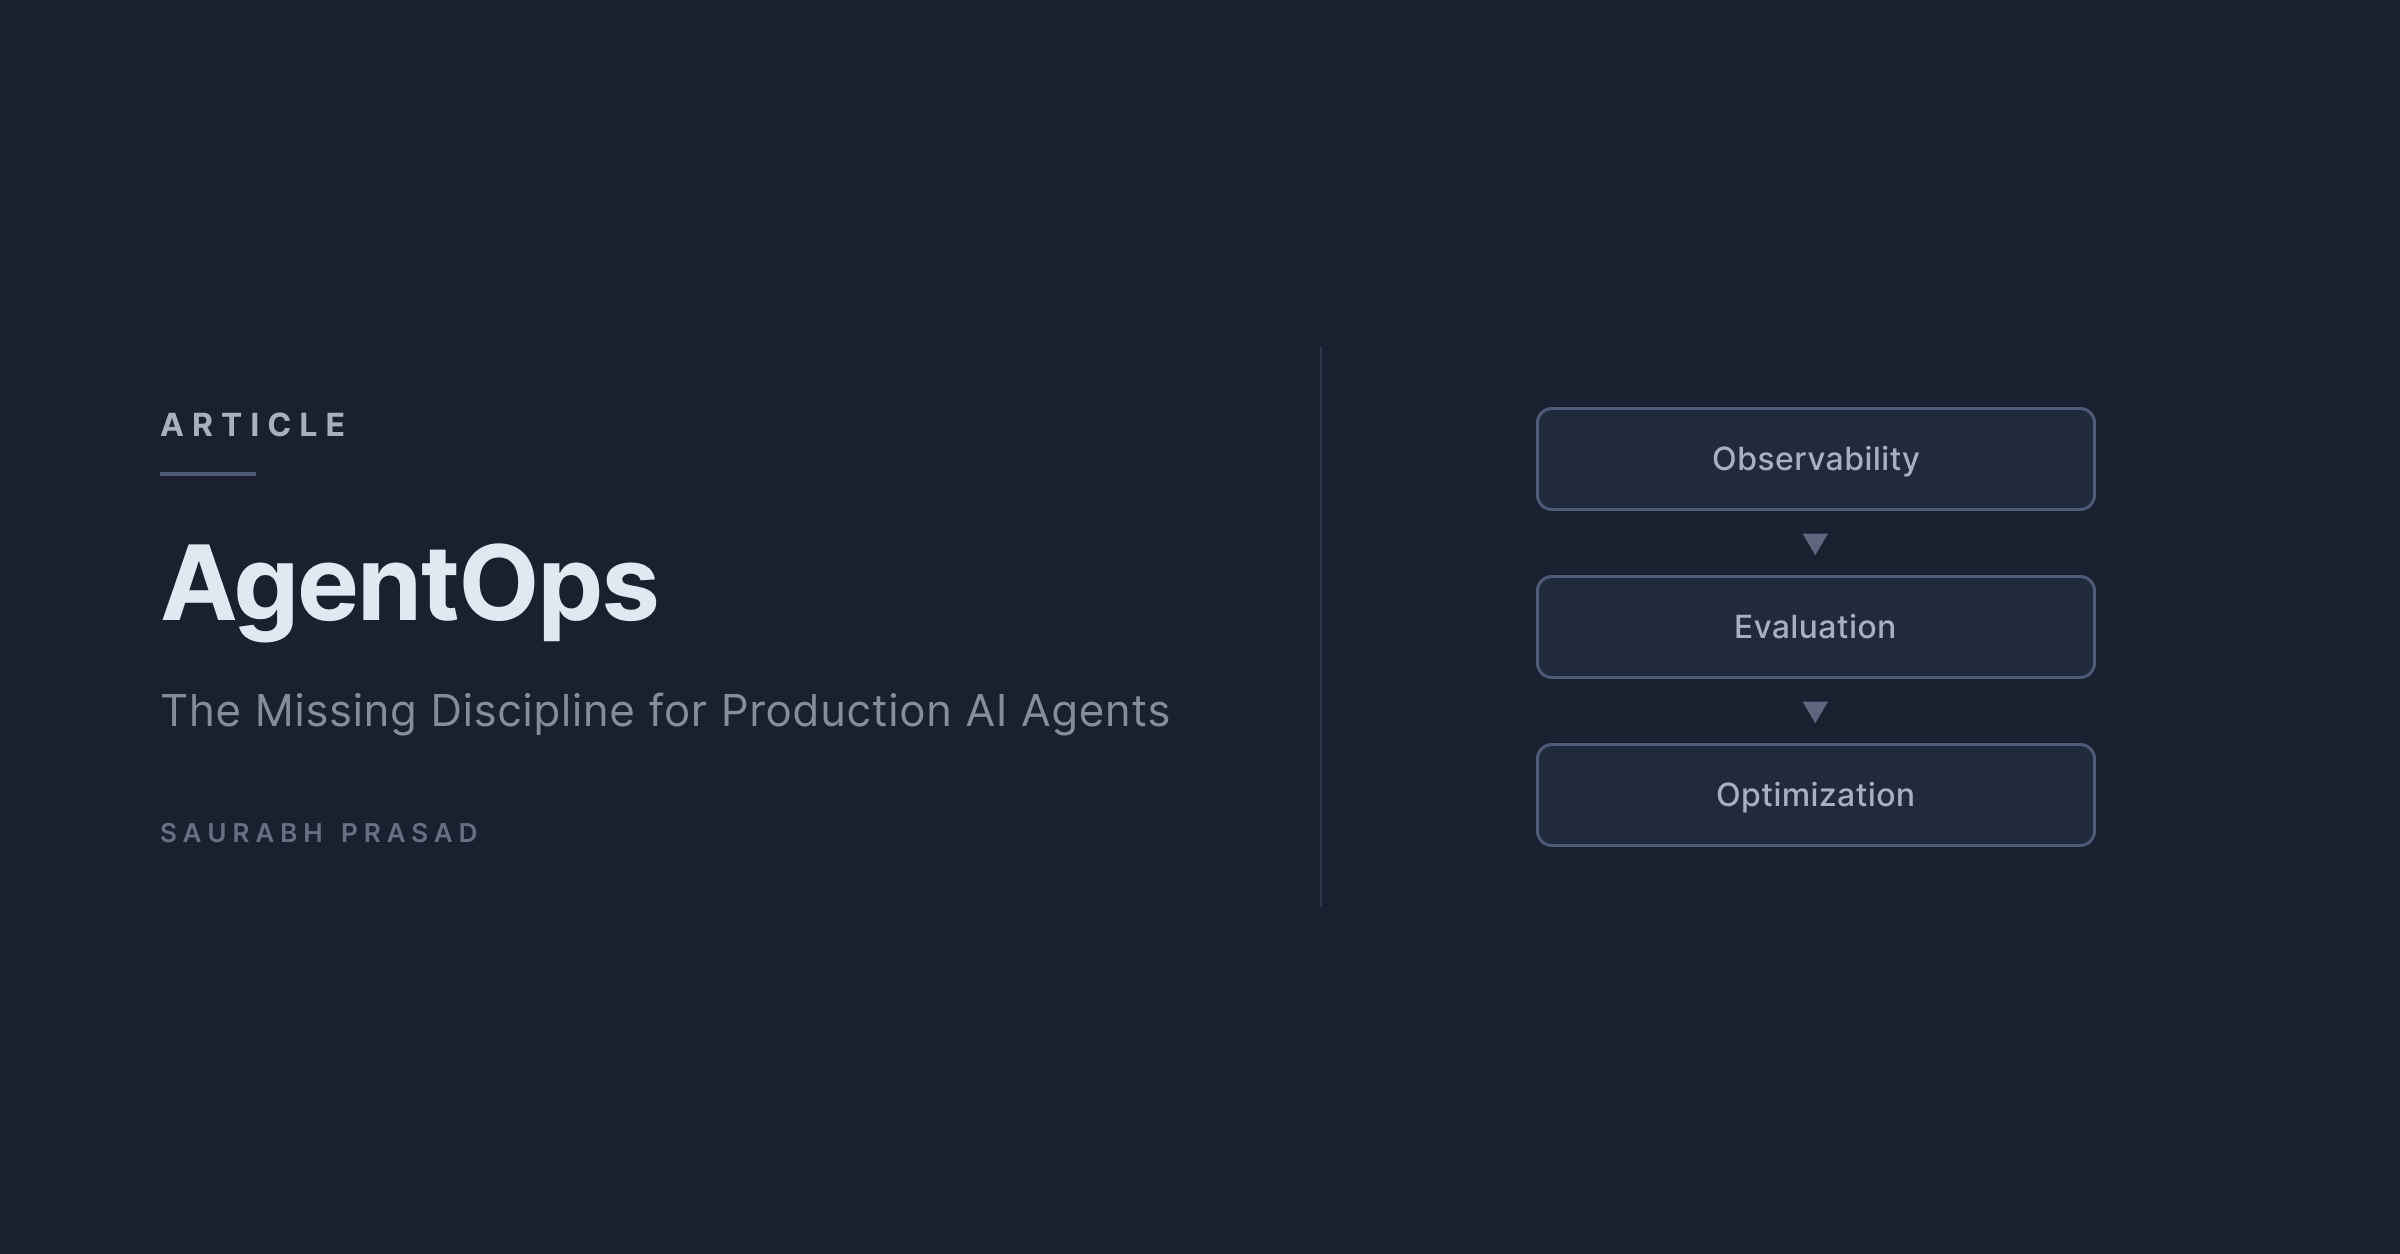
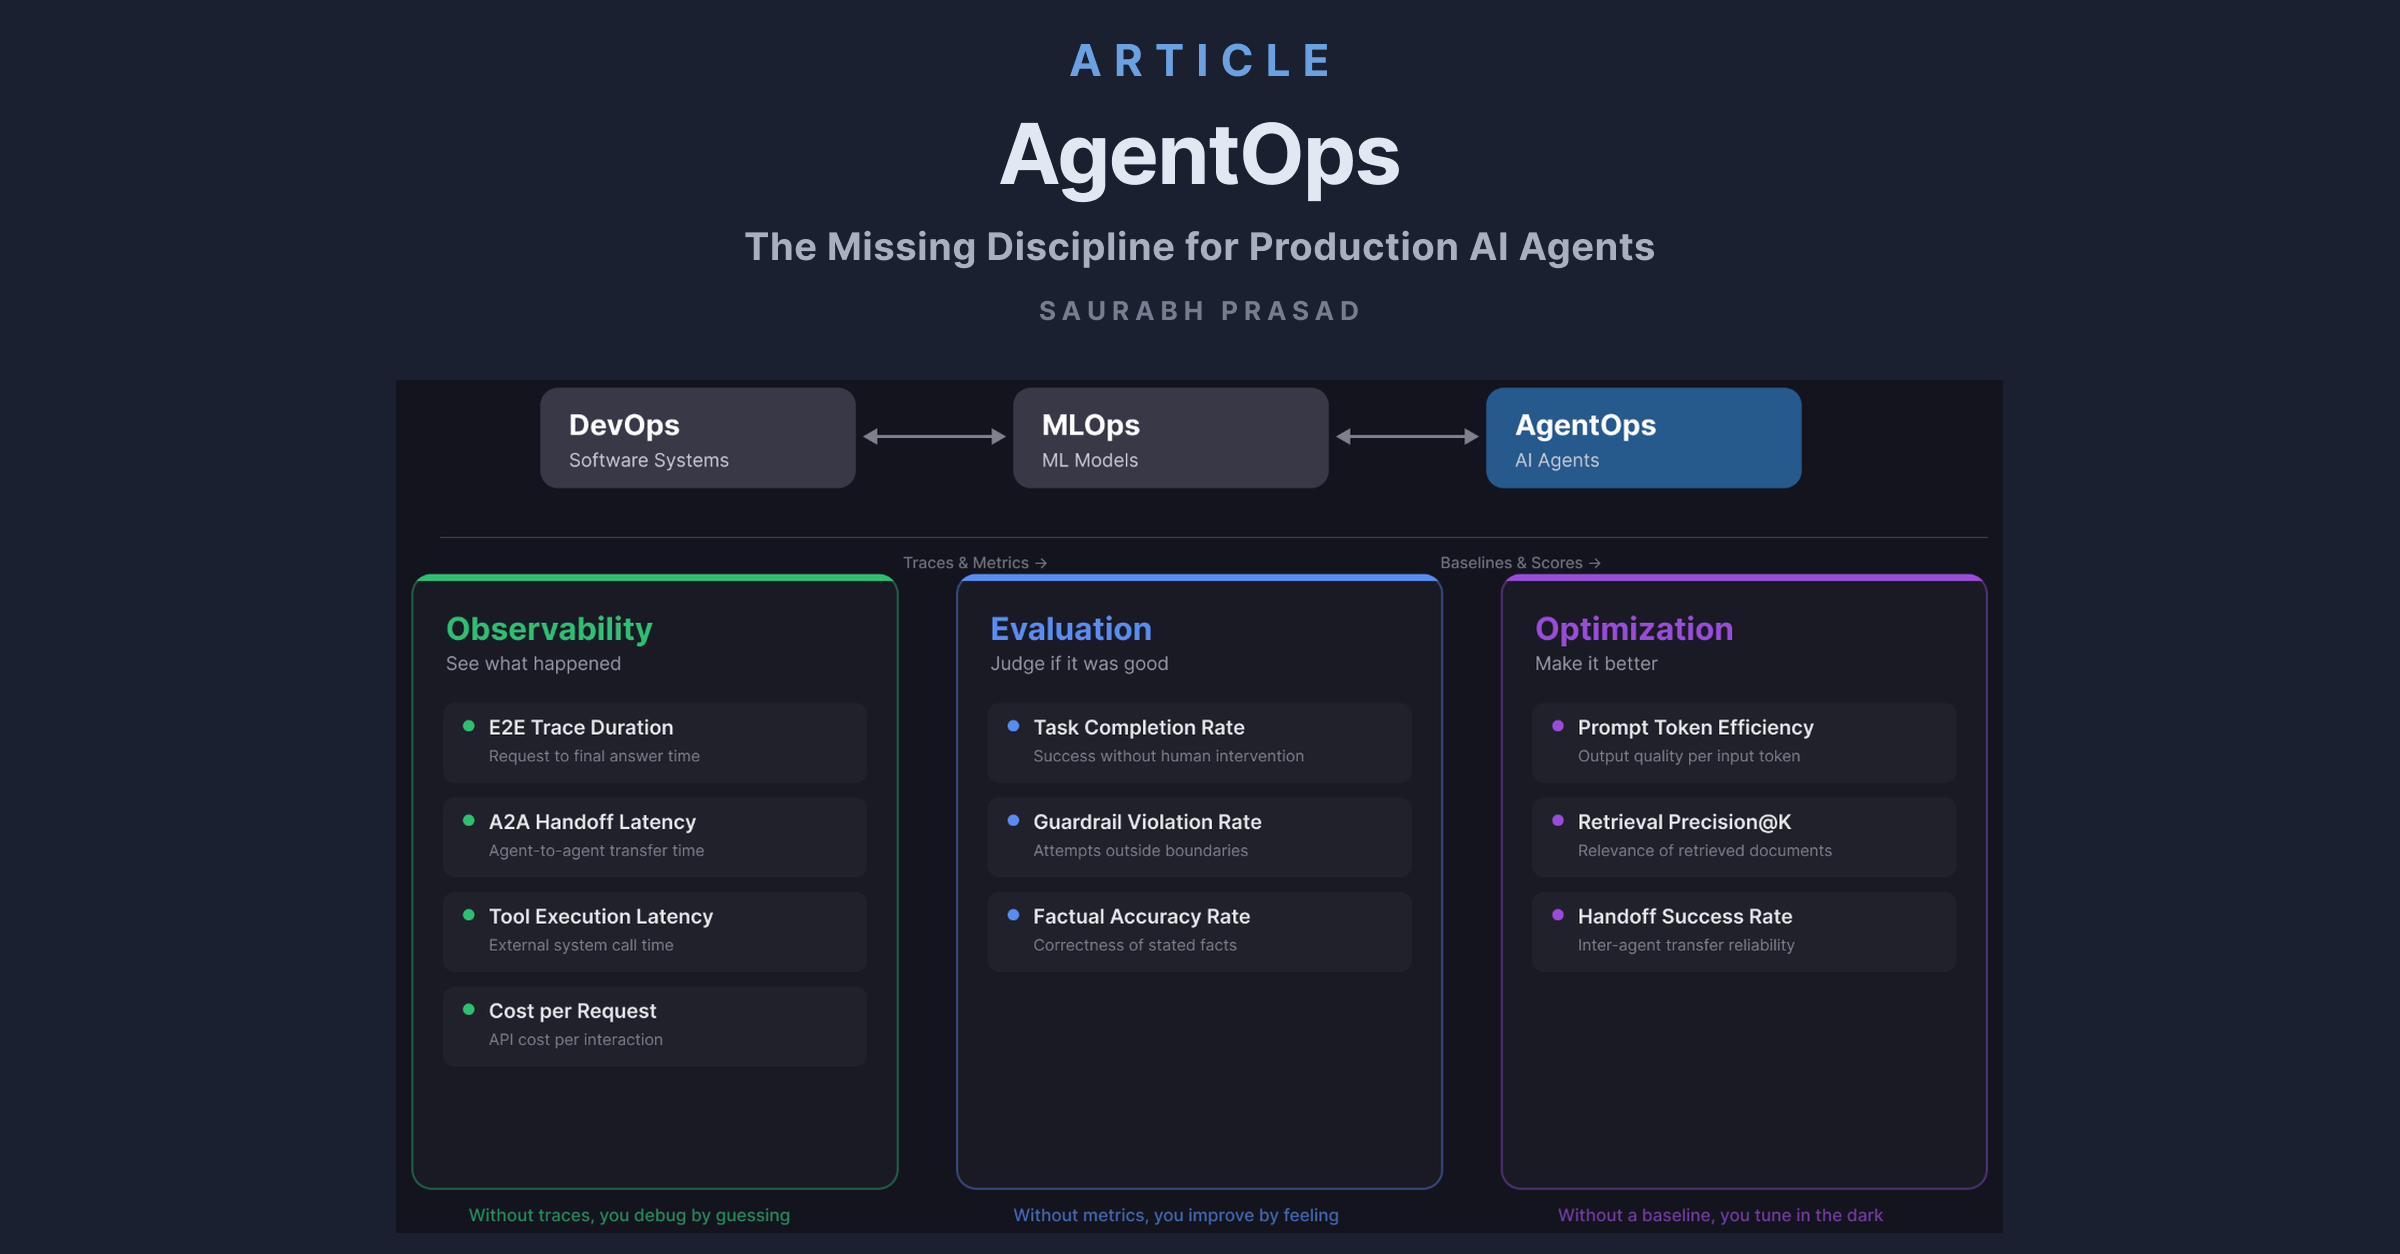
redesign all 3 article OG cards with stacked layout + real diagrams
Replaces the previous split/flow-diagram experiments with a frozen
stacked template (captured in .claude/skills/generate-article-og-card):

- ARTICLE label in muted blue at top
- Bold title, bold subtitle, author line (SAURABH PRASAD)
- Article's own diagram fills the bottom 70% of the card

Sources:
- RAG article: rag-pattern3-orchestrated.png (the Self-Correcting RAG
  Pipeline flow already on the article page)
- AgentOps: agentops-card-source.png (new — DevOps/MLOps/AgentOps
  lineage + 3-layer card grid, added as the dedicated social card)
- Title Platform: title-platform-card-source.png (new — horizontal
  Skills / MCP / A2A / AG-UI / A2UI protocol card row)

og:image URLs bumped to ?v=3 so LinkedIn re-crawls fresh instead of
serving the previous minimal cards from cache.

diff --git a/articles/agentops.html b/articles/agentops.html
@@ -11,7 +11,7 @@
     <meta property="og:url" content="https://prsaurabh.github.io/articles/agentops.html">
     <meta property="og:title" content="AgentOps: The Missing Discipline for Production AI Agents">
     <meta property="og:description" content="Most teams can build an AI agent. Few can operate one. Three layers — observability, evaluation, and optimization — with the metrics that matter and what an operational control plane looks like in practice.">
-    <meta property="og:image" content="https://prsaurabh.github.io/assets/og-agentops-article.png?v=2">
+    <meta property="og:image" content="https://prsaurabh.github.io/assets/og-agentops-article.png?v=3">
     <meta property="og:image:width" content="1200">
     <meta property="og:image:height" content="627">
 
@@ -19,7 +19,7 @@
     <meta name="twitter:card" content="summary_large_image">
     <meta name="twitter:title" content="AgentOps: The Missing Discipline for Production AI Agents">
     <meta name="twitter:description" content="Most teams can build an AI agent. Few can operate one. Observability, evaluation, and optimization — with the metrics that matter.">
-    <meta name="twitter:image" content="https://prsaurabh.github.io/assets/og-agentops-article.png?v=2">
+    <meta name="twitter:image" content="https://prsaurabh.github.io/assets/og-agentops-article.png?v=3">
 
     <link rel="stylesheet" href="../css/style.css">
 </head>

diff --git a/articles/title-platform-ai-native.html b/articles/title-platform-ai-native.html
@@ -11,7 +11,7 @@
     <meta property="og:url" content="https://prsaurabh.github.io/articles/title-platform-ai-native.html">
     <meta property="og:title" content="Building AI-Native Enterprise Applications">
     <meta property="og:description" content="An end-to-end look at building an AI-native enterprise application from the ground up — architecture, protocol stack, skill registry, and modernization approach.">
-    <meta property="og:image" content="https://prsaurabh.github.io/assets/og-title-platform-article.png?v=2">
+    <meta property="og:image" content="https://prsaurabh.github.io/assets/og-title-platform-article.png?v=3">
     <meta property="og:image:width" content="1200">
     <meta property="og:image:height" content="627">
 
@@ -19,7 +19,7 @@
     <meta name="twitter:card" content="summary_large_image">
     <meta name="twitter:title" content="Building AI-Native Enterprise Applications">
     <meta name="twitter:description" content="An end-to-end look at building an AI-native enterprise application from the ground up.">
-    <meta name="twitter:image" content="https://prsaurabh.github.io/assets/og-title-platform-article.png?v=2">
+    <meta name="twitter:image" content="https://prsaurabh.github.io/assets/og-title-platform-article.png?v=3">
 
     <link rel="stylesheet" href="../css/style.css">
     <style>

diff --git a/articles/rag-patterns-evolution.html b/articles/rag-patterns-evolution.html
@@ -11,7 +11,7 @@
     <meta property="og:url" content="https://prsaurabh.github.io/articles/rag-patterns-evolution.html">
     <meta property="og:title" content="Evolution of RAG: From Simple Retrieval to Agentic Systems">
     <meta property="og:description" content="A deep dive into three RAG patterns — Traditional, ReAct Agent, and Orchestrated Graph — with real implementation insights and trade-offs.">
-    <meta property="og:image" content="https://prsaurabh.github.io/assets/og-rag-article.png?v=2">
+    <meta property="og:image" content="https://prsaurabh.github.io/assets/og-rag-article.png?v=3">
     <meta property="og:image:width" content="1200">
     <meta property="og:image:height" content="627">
 
@@ -19,7 +19,7 @@
     <meta name="twitter:card" content="summary_large_image">
     <meta name="twitter:title" content="Evolution of RAG: From Simple Retrieval to Agentic Systems">
     <meta name="twitter:description" content="A deep dive into three RAG patterns — Traditional, ReAct Agent, and Orchestrated Graph.">
-    <meta name="twitter:image" content="https://prsaurabh.github.io/assets/og-rag-article.png?v=2">
+    <meta name="twitter:image" content="https://prsaurabh.github.io/assets/og-rag-article.png?v=3">
 
     <link rel="stylesheet" href="../css/style.css">
 </head>
